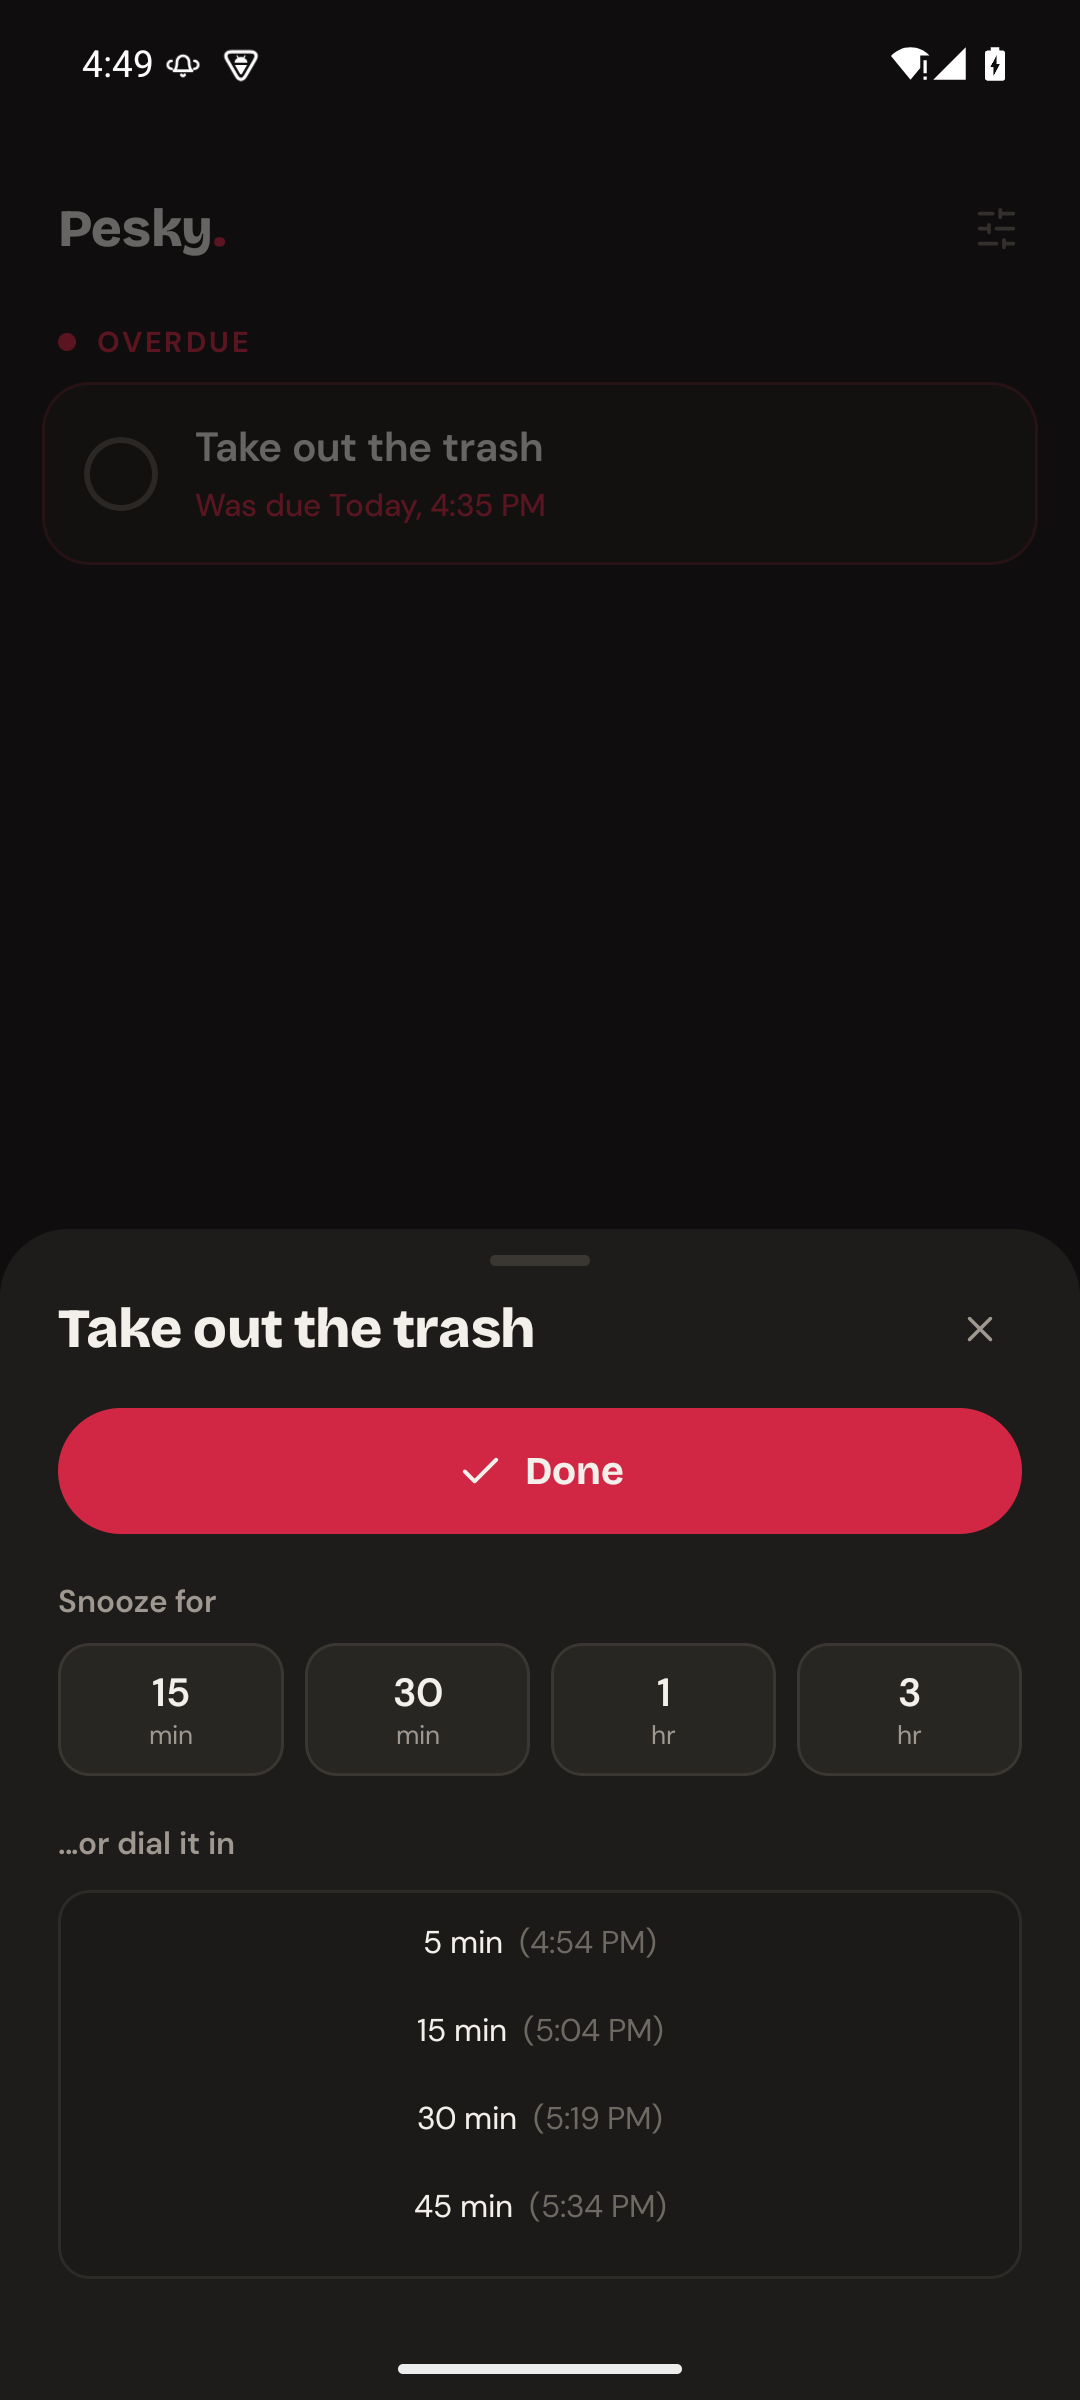
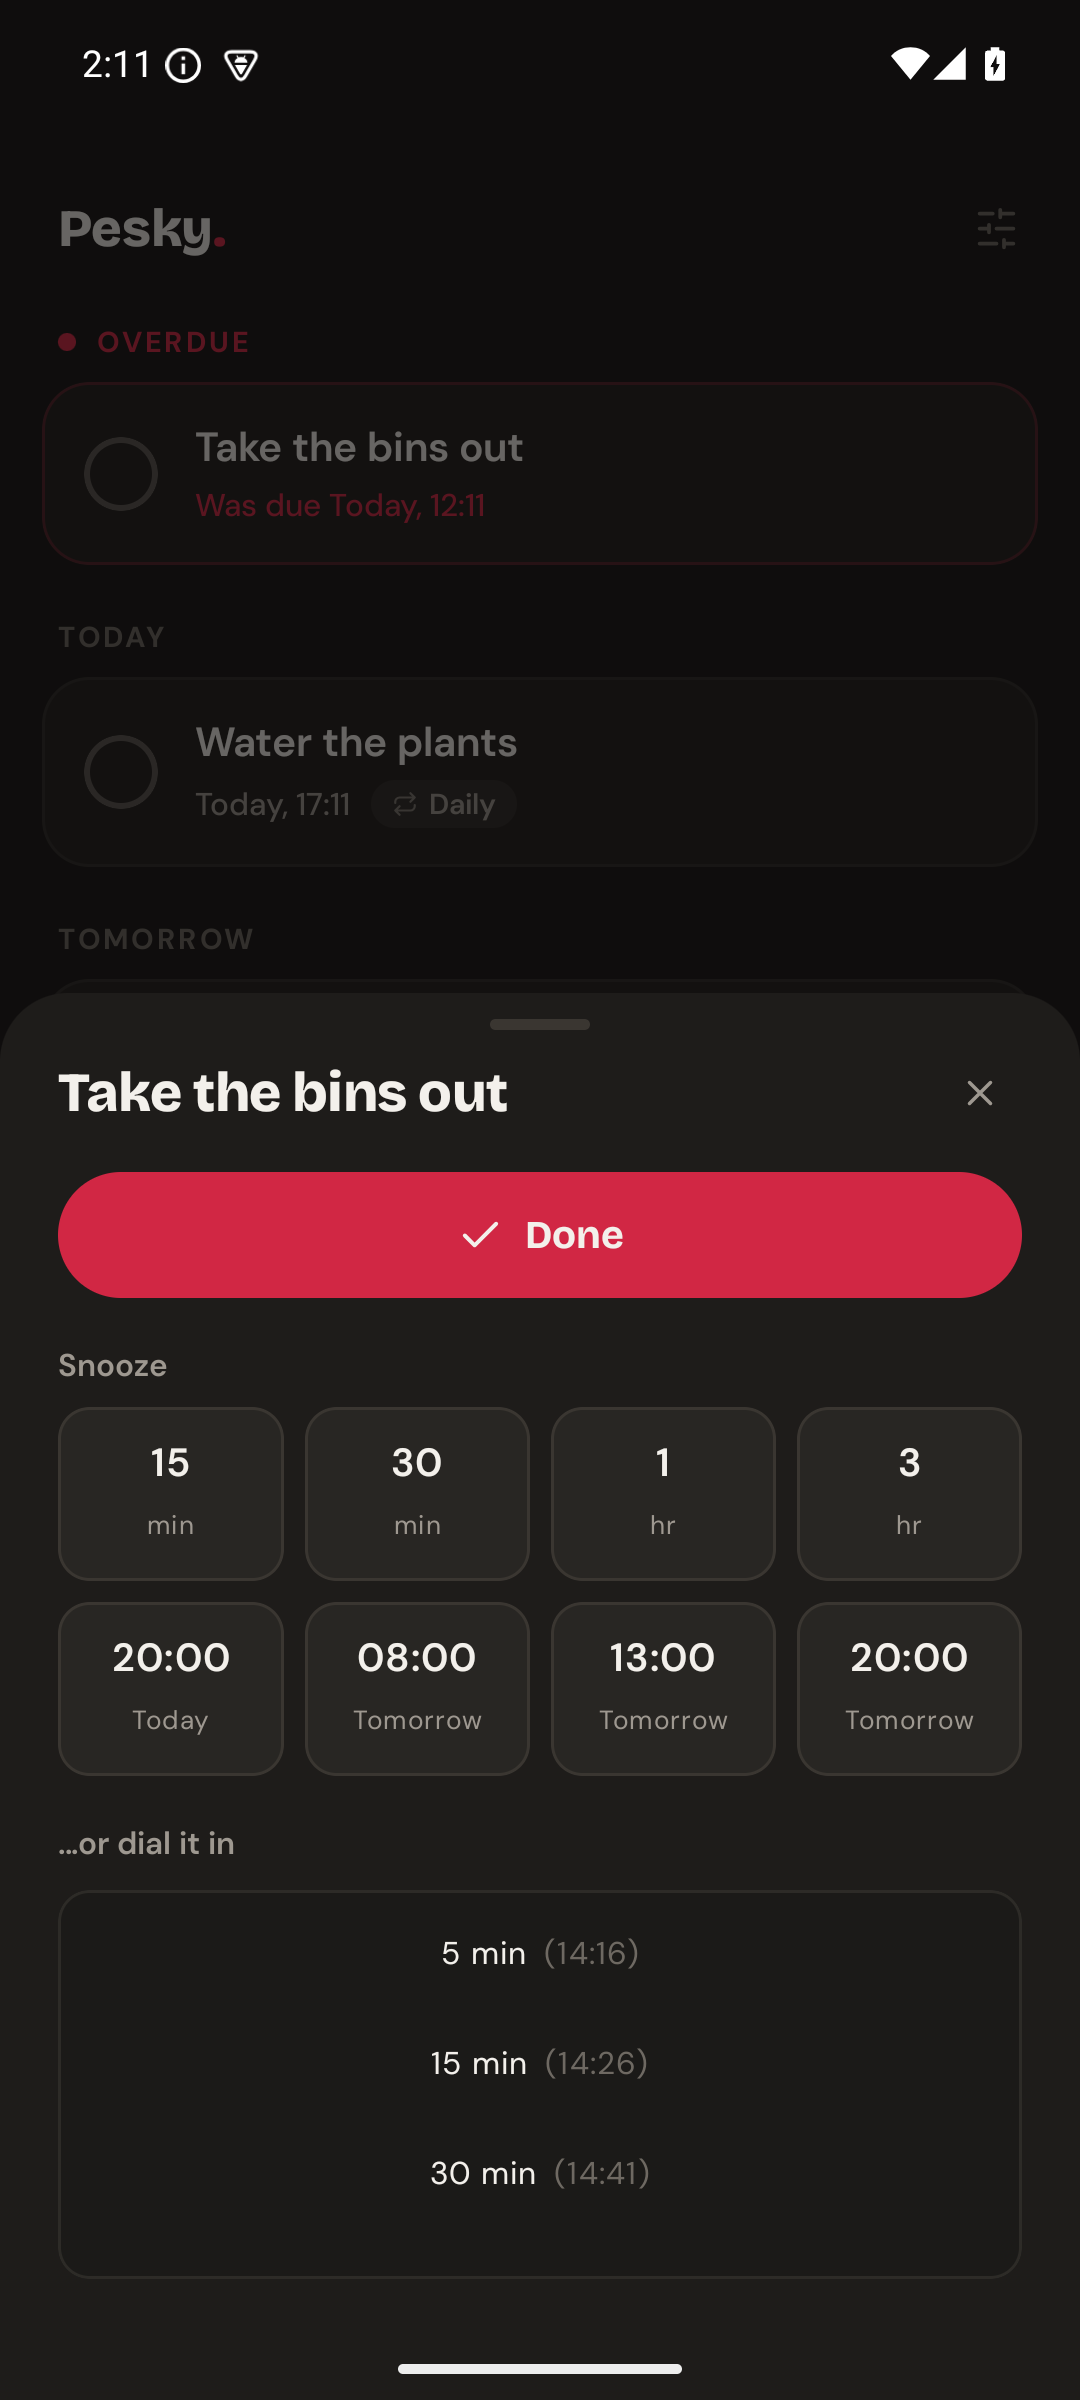
chore: bump to 0.15.0 and document the time chips
Records why the two rows commit differently (absolute millis vs minutes),
why the part-of-day words are generated-from but never shown, and why one
"Snooze" label covers both rows.

Refreshes the README screenshot — the old one shows a sheet with a single
chip row that no longer exists.

Claude-Session: https://claude.ai/code/session_01CmuFQQSNbMCUAx8QDbEc46

diff --git a/CLAUDE.md b/CLAUDE.md
@@ -218,7 +218,7 @@ app/src/main/java/com/wgorski/peskyreminders/
     TaskSheet.kt        # add AND edit in one: name, repeat, save, the action rows
     TimePickers.kt      # the wheels and the month grid — shared by both paths
     SettingsSheet.kt    # nag on/off + interval
-    ReminderSheet.kt    # Done, 15/30/1h/3h chips, 5 min–72 hr wheel — notification + overdue tap
+    ReminderSheet.kt    # Done, 15/30/1h/3h + time-of-day chips, 5 min–72 hr wheel
     ConfirmSheet.kt     # shared "are you sure?" chrome — every delete goes through it
     ClearDoneSheet.kt   # confirms CLEAR (the whole done list)
     DeleteTaskSheet.kt  # confirms deleting one task — the only exit for a repeater
@@ -384,6 +384,25 @@ does NOT fire the delete-intent, so those clear the notification without re-post
   why there is no "back at …" footer — with no held choice there is nothing to
   preview, so each wheel row states the time it lands on instead. Adding a
   highlight back would promise a confirm step that does not exist.
+- **The time chips commit an absolute millis; the duration chips commit a count of
+  minutes.** Two callbacks on purpose. Converting a time to minutes-from-now at
+  composition time drifts by however long the user takes to tap, and
+  `ReminderActivity` snapshots its clock once at `setContent` and never refreshes —
+  a sheet left open five minutes would land "Tomorrow 08:00" at 08:05, which is the
+  same class of bug as the snooze-from-due-time one below. `Reminders.snoozeUntil`
+  stores the target verbatim. Its past-target branch is not dead code: the sheet can
+  sit open across the very rung it is offering, and arming `setAlarmClock` in the
+  past fires it at once, so it cancels the alarm and leaves the notification live —
+  "pester me now", the line `create` takes.
+- **The ladder generates from morning/afternoon/evening but never says so.** Once a
+  chip reads `13:00`, "afternoon" adds nothing, and four chips only get ~81dp each —
+  "Afternoon" at 15sp very nearly fills that alone. Both chip labels come from
+  `TaskTime`, so they cannot disagree with the wheel rows below about how a time is
+  written, 24-hour included. Verified unclipped at font scale 1.3.
+- **Both chip rows share one "Snooze" label.** They are one choice offered two ways —
+  how long from now, or what time to land on. "Snooze for" cannot cover the second
+  row (*snooze for 20:00* is wrong), which is what forces the neutral single label
+  rather than a matched pair.
 - **The reminder sheet has two hosts and exactly one implementation.**
   `ReminderActivity` raises it from the notification; `PeskyApp` raises it when an
   **overdue** row is tapped. Same composable, no host parameter — two variants

diff --git a/README.md b/README.md
@@ -28,16 +28,25 @@ It arrives like any other notification — and then it stays.
 The wording stays in the present tense — *"Is due Today, 08:00"* — however late it
 is. It's on your screen because the thing still wants doing.
 
-<img src="docs/screenshots/reminder-sheet.png" width="300" alt="The reminder's action sheet, with a Done pill, four snooze chips and the duration wheel">
+<img src="docs/screenshots/reminder-sheet.png" width="300" alt="The reminder's action sheet: a Done pill, a row of duration chips, a row of time-of-day chips, and the duration wheel">
 
-**Done** is the filled pill at the top — one tap and it's finished. Below it, four
-chips cover the common snoozes: 15 min, 30 min, 1 hr, 3 hr. Everything else is in the
-wheel underneath, starting at 5 minutes out and running to three days, coarsening as
-it goes (quarter-hours, then half-hours, then hours, then six-hour jumps) — and
-*every* row spells out the clock time it lands on, not just the long ones, so "3h"
-reads as the 7:15 it actually means. There's no confirm button anywhere in the sheet:
-whichever chip or wheel row you tap is the choice, committed the instant you tap it.
-Snoozing counts from **now**, not from when the reminder was originally due.
+**Done** is the filled pill at the top — one tap and it's finished. Below it, under a
+single **Snooze** heading, are two rows of chips. The first is durations: 15 min,
+30 min, 1 hr, 3 hr. The second names times of day instead — *20:00 Today*,
+*08:00 Tomorrow*, *13:00 Tomorrow* — always the next four still ahead of you, so at
+14:00 today's morning and afternoon are simply gone and the row starts at this
+evening. It's for the intent a duration is clumsy at: not "in three hours" but
+"tomorrow morning".
+
+Everything else is in the wheel underneath, starting at 5 minutes out and running to
+three days, coarsening as it goes (quarter-hours, then half-hours, then hours, then
+six-hour jumps) — and *every* row spells out the clock time it lands on, not just the
+long ones, so "3h" reads as the 7:15 it actually means.
+
+There's no confirm button anywhere in the sheet: whichever chip or wheel row you tap is
+the choice, committed the instant you tap it. The *durations* count from **now**, never
+from when the reminder was originally due; the time chips land on exactly the time they
+show.
 
 ## The list
 
